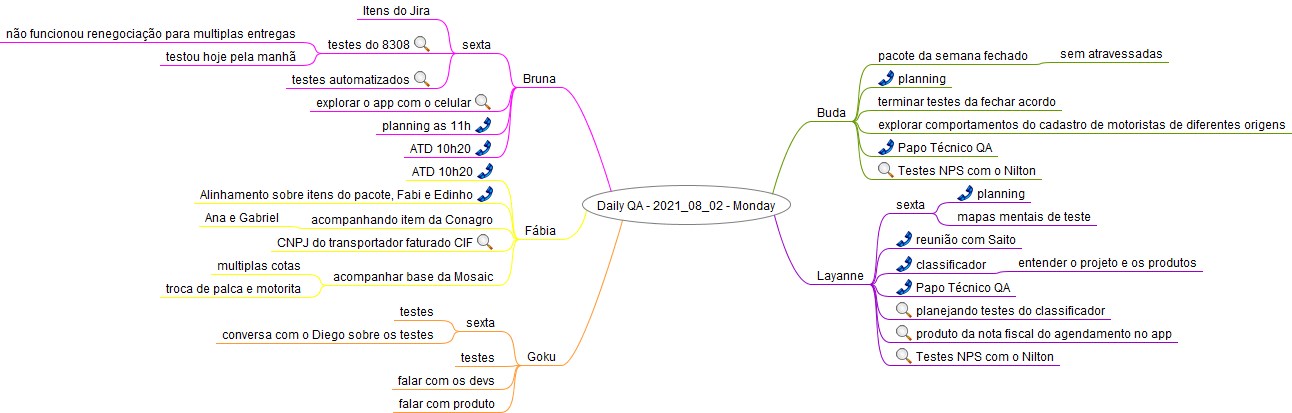
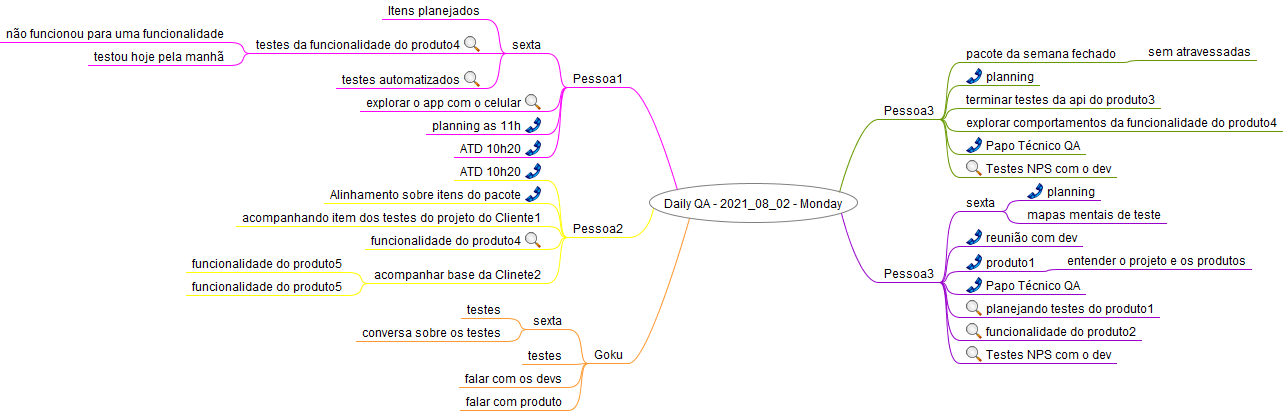
feat: adding new examples and renaming folders

diff --git a/Apresentação sobre Mind Maps em QA/Exemplos/Anotações/Reuniões/Daily QA - 2021_08_02 - Monday.mm b/Apresentação sobre Mind Maps em QA/Exemplos/Anotações/Reuniões/Daily QA - 2021_08_02 - Monday.mm
@@ -1,7 +1,7 @@
 <map version="1.0.1">
 <!-- To view this file, download free mind mapping software FreeMind from http://freemind.sourceforge.net -->
-<node CREATED="1612442859609" ID="ID_451387977" MODIFIED="1627908657589" TEXT="Daily QA - 2021_08_02 - Monday">
-<node CREATED="1612442877983" ID="ID_1385125519" MODIFIED="1612442931272" POSITION="right" TEXT="Buda">
+<node CREATED="1612442859609" ID="ID_451387977" MODIFIED="1646939076706" TEXT="Daily QA - 2021_08_02 - Monday">
+<node CREATED="1612442877983" ID="ID_1385125519" MODIFIED="1646938868616" POSITION="right" TEXT="Pessoa3">
 <edge COLOR="#669900"/>
 <node CREATED="1627909035153" ID="ID_929521916" MODIFIED="1627909045974" TEXT="pacote da semana fechado">
 <node CREATED="1627909046571" ID="ID_303222194" MODIFIED="1627909050694" TEXT="sem atravessadas"/>
@@ -9,16 +9,16 @@
 <node CREATED="1627909051513" ID="ID_1062343672" MODIFIED="1627909103221" TEXT="planning">
 <icon BUILTIN="kaddressbook"/>
 </node>
-<node CREATED="1627909054161" ID="ID_1251155525" MODIFIED="1627909060453" TEXT="terminar testes da fechar acordo"/>
-<node CREATED="1627909060817" ID="ID_501651017" MODIFIED="1627909081790" TEXT="explorar comportamentos do cadastro de motoristas de diferentes origens"/>
+<node CREATED="1627909054161" ID="ID_1251155525" MODIFIED="1646938958177" TEXT="terminar testes da api do produto3"/>
+<node CREATED="1627909060817" ID="ID_501651017" MODIFIED="1646938968604" TEXT="explorar comportamentos da funcionalidade do produto4"/>
 <node CREATED="1627909181193" ID="ID_78883963" MODIFIED="1627909209226" TEXT="Papo T&#xe9;cnico QA">
 <icon BUILTIN="kaddressbook"/>
 </node>
-<node CREATED="1627909185731" ID="ID_968524303" MODIFIED="1627909198981" TEXT="Testes NPS com o Nilton">
+<node CREATED="1627909185731" ID="ID_968524303" MODIFIED="1646938945090" TEXT="Testes NPS com o dev">
 <icon BUILTIN="xmag"/>
 </node>
 </node>
-<node CREATED="1626783719600" ID="ID_1027216107" MODIFIED="1626783736811" POSITION="right" TEXT="Layanne">
+<node CREATED="1626783719600" ID="ID_1027216107" MODIFIED="1646938889322" POSITION="right" TEXT="Pessoa3">
 <edge COLOR="#9900cc"/>
 <node CREATED="1627909083857" ID="ID_206942874" MODIFIED="1627909084845" TEXT="sexta">
 <node CREATED="1627909085161" ID="ID_276529920" MODIFIED="1627909089638" TEXT="planning">
@@ -26,33 +26,33 @@
 </node>
 <node CREATED="1627909091401" ID="ID_1766619443" MODIFIED="1627909097126" TEXT="mapas mentais de teste"/>
 </node>
-<node CREATED="1627909105025" ID="ID_1459389941" MODIFIED="1627909110316" TEXT="reuni&#xe3;o com Saito">
+<node CREATED="1627909105025" ID="ID_1459389941" MODIFIED="1646938894129" TEXT="reuni&#xe3;o com dev">
 <icon BUILTIN="kaddressbook"/>
 </node>
-<node CREATED="1627909110897" ID="ID_4440945" MODIFIED="1627909120341" TEXT="classificador">
+<node CREATED="1627909110897" ID="ID_4440945" MODIFIED="1646938904074" TEXT="produto1">
 <icon BUILTIN="kaddressbook"/>
 <node CREATED="1627909162802" ID="ID_406656186" MODIFIED="1627909173622" TEXT="entender o projeto e os produtos"/>
 </node>
 <node CREATED="1627909181193" ID="ID_456494373" MODIFIED="1627909209226" TEXT="Papo T&#xe9;cnico QA">
 <icon BUILTIN="kaddressbook"/>
 </node>
-<node CREATED="1627909122689" ID="ID_671915573" MODIFIED="1627909135012" TEXT="planejando testes do classificador">
+<node CREATED="1627909122689" ID="ID_671915573" MODIFIED="1646938910321" TEXT="planejando testes do produto1">
 <icon BUILTIN="xmag"/>
 </node>
-<node CREATED="1627909130393" ID="ID_1951923631" MODIFIED="1627909145124" TEXT="produto da nota fiscal do agendamento no app">
+<node CREATED="1627909130393" ID="ID_1951923631" MODIFIED="1646938939586" TEXT="funcionalidade do produto2">
 <icon BUILTIN="xmag"/>
 </node>
-<node CREATED="1627909185731" ID="ID_989587077" MODIFIED="1627909198981" TEXT="Testes NPS com o Nilton">
+<node CREATED="1627909185731" ID="ID_989587077" MODIFIED="1646938924753" TEXT="Testes NPS com o dev">
 <icon BUILTIN="xmag"/>
 </node>
 </node>
-<node CREATED="1620737251163" ID="ID_1247286859" MODIFIED="1626783745091" POSITION="left" TEXT="Bruna">
+<node CREATED="1620737251163" ID="ID_1247286859" MODIFIED="1646938875841" POSITION="left" TEXT="Pessoa1">
 <edge COLOR="#ff00ff"/>
 <node CREATED="1627908783753" ID="ID_459757882" MODIFIED="1627908788805" TEXT="sexta">
-<node CREATED="1627908789242" ID="ID_1084539867" MODIFIED="1627908793502" TEXT="Itens do Jira"/>
-<node CREATED="1627908794298" ID="ID_1265423755" MODIFIED="1627908854252" TEXT="testes do 8308">
+<node CREATED="1627908789242" ID="ID_1084539867" MODIFIED="1646938999042" TEXT="Itens planejados"/>
+<node CREATED="1627908794298" ID="ID_1265423755" MODIFIED="1646938983920" TEXT="testes da funcionalidade do produto4">
 <icon BUILTIN="xmag"/>
-<node CREATED="1627908803570" ID="ID_1346981994" MODIFIED="1627908811757" TEXT="n&#xe3;o funcionou renegocia&#xe7;&#xe3;o para multiplas entregas"/>
+<node CREATED="1627908803570" ID="ID_1346981994" MODIFIED="1646938992394" TEXT="n&#xe3;o funcionou para uma funcionalidade"/>
 <node CREATED="1627908813681" ID="ID_1603459809" MODIFIED="1627908818742" TEXT="testou hoje pela manh&#xe3;"/>
 </node>
 <node CREATED="1627908824649" ID="ID_1957117418" MODIFIED="1627908854253" TEXT="testes automatizados">
@@ -69,30 +69,28 @@
 <icon BUILTIN="kaddressbook"/>
 </node>
 </node>
-<node CREATED="1612442872879" ID="ID_629368329" MODIFIED="1626783753824" POSITION="left" TEXT="F&#xe1;bia">
+<node CREATED="1612442872879" ID="ID_629368329" MODIFIED="1646938883057" POSITION="left" TEXT="Pessoa2">
 <edge COLOR="#ffff00"/>
 <node CREATED="1627908883912" ID="ID_1011604962" MODIFIED="1627908899709" TEXT="ATD 10h20">
 <icon BUILTIN="kaddressbook"/>
 </node>
-<node CREATED="1627908900096" ID="ID_1034188731" MODIFIED="1627908947117" TEXT="Alinhamento sobre itens do pacote, Fabi e Edinho">
+<node CREATED="1627908900096" ID="ID_1034188731" MODIFIED="1646939010528" TEXT="Alinhamento sobre itens do pacote">
 <icon BUILTIN="kaddressbook"/>
 </node>
-<node CREATED="1627908914081" ID="ID_604155920" MODIFIED="1627908921998" TEXT="acompanhando item da Conagro">
-<node CREATED="1627908923041" ID="ID_1602746855" MODIFIED="1627908929389" TEXT="Ana e Gabriel"/>
-</node>
-<node CREATED="1627908930905" ID="ID_438632615" MODIFIED="1627908940588" TEXT="CNPJ do transportador faturado CIF">
+<node CREATED="1627908914081" ID="ID_604155920" MODIFIED="1646939023594" TEXT="acompanhando item dos testes do projeto do Cliente1"/>
+<node CREATED="1627908930905" ID="ID_438632615" MODIFIED="1646939033610" TEXT="funcionalidade do produto4">
 <icon BUILTIN="xmag"/>
 </node>
-<node CREATED="1627908956642" ID="ID_455056764" MODIFIED="1627908961918" TEXT="acompanhar base da Mosaic">
-<node CREATED="1627908962521" ID="ID_89749488" MODIFIED="1627908965030" TEXT="multiplas cotas"/>
-<node CREATED="1627908965281" ID="ID_1225134009" MODIFIED="1627908970349" TEXT="troca de palca e motorita"/>
+<node CREATED="1627908956642" ID="ID_455056764" MODIFIED="1646939040594" TEXT="acompanhar base da Clinete2">
+<node CREATED="1627908962521" ID="ID_89749488" MODIFIED="1646939050282" TEXT="funcionalidade do produto5"/>
+<node CREATED="1627908965281" ID="ID_1225134009" MODIFIED="1646939054561" TEXT="funcionalidade do produto5"/>
 </node>
 </node>
 <node CREATED="1612442870703" ID="ID_1338860479" MODIFIED="1627908973332" POSITION="left" TEXT="Goku">
 <edge COLOR="#ff9933"/>
 <node CREATED="1627908321160" ID="ID_1806184772" MODIFIED="1627908322751" TEXT="sexta">
 <node CREATED="1627908427225" ID="ID_432872542" MODIFIED="1627908432311" TEXT="testes"/>
-<node CREATED="1627908415914" ID="ID_1160517767" MODIFIED="1627908424126" TEXT="conversa com o Diego sobre os testes"/>
+<node CREATED="1627908415914" ID="ID_1160517767" MODIFIED="1646938851714" TEXT="conversa sobre os testes"/>
 </node>
 <node CREATED="1627908433986" ID="ID_1050241474" MODIFIED="1627908489878" TEXT="testes"/>
 <node CREATED="1627908490537" ID="ID_893810468" MODIFIED="1627908493494" TEXT="falar com os devs"/>
